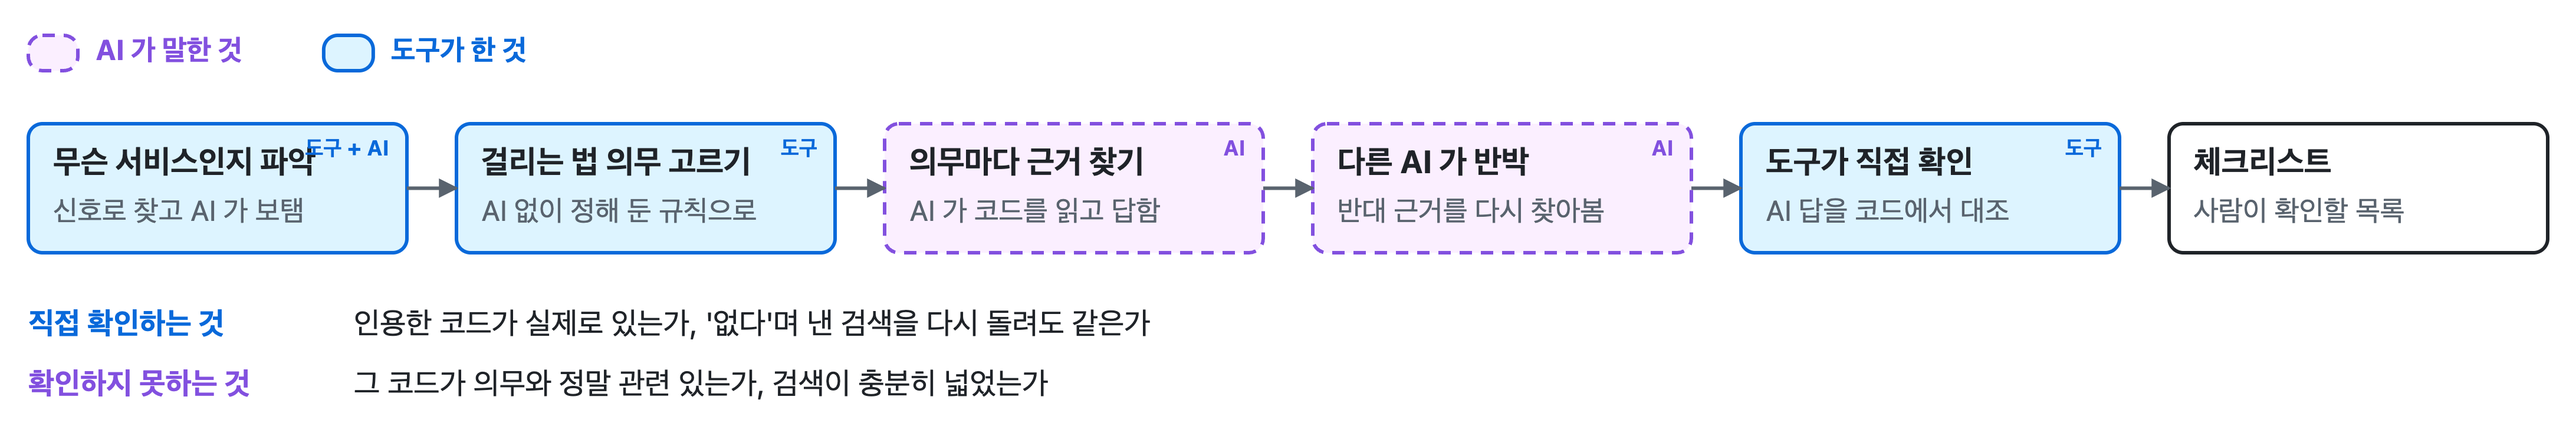
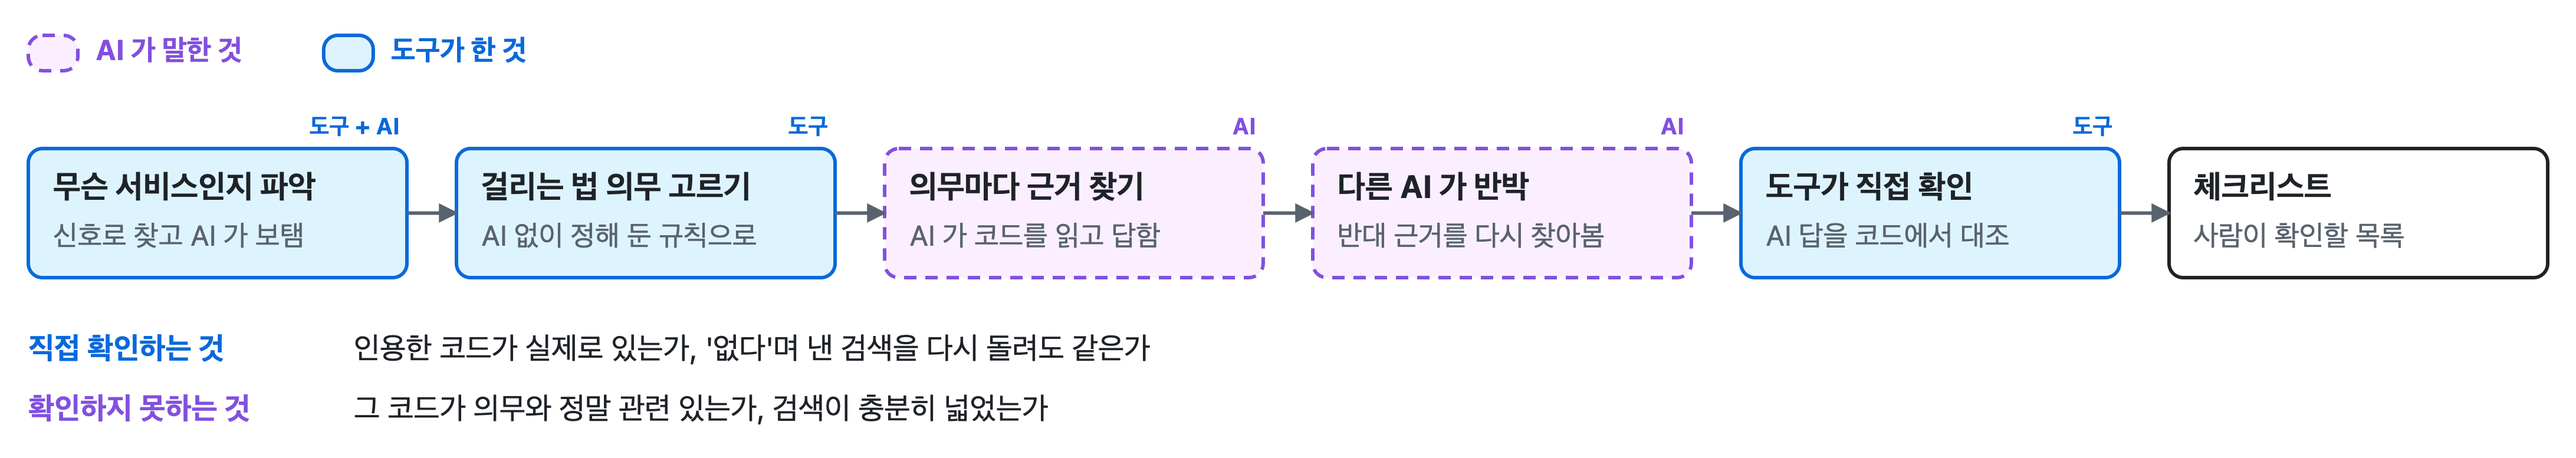
쉬운 판 손질: 그림 2 의 딱지를 상자 위로(제목과 겹치지 않게), 그림 1 은 상자를 계단처럼 조이고 번호를 선 바로 옆에
- analysis-flow-simple: 'AI'·'도구'·'도구 + AI' 딱지를 상자 안 오른쪽 위에서 상자 바로 위로 옮겼다
- analysis-path-simple: ③ 이 웹 상자 아래에서 곧게 VM 으로 내려가게 상자를 계단처럼 놓아 왼쪽·가운데 빈자리를 줄였다(폭 1432 → 1216). 번호는 세로 선은 옆 16, 가로 선은 위 12 에 붙인다
- 내보내기 스크립트가 글끼리 겹치는 것도 잰다(이번 겹침을 잡는 것을 확인했다)

diff --git a/src/lib/how/figures.ts b/src/lib/how/figures.ts
@@ -46,7 +46,7 @@ function put(
   w: number,
   title: string,
   lines: string[],
-  opts: { tone?: Tone; tag?: string; size?: { title: number; line: number }; h?: number } = {},
+  opts: { tone?: Tone; tag?: string; tagAbove?: boolean; size?: { title: number; line: number }; h?: number } = {},
 ): Placed {
   const h = opts.h ?? boxHeight(lines.length, opts.size);
   c.box(id, x, y, w, h, title, lines, opts);
@@ -56,14 +56,8 @@ function put(
 /* ─────────────────────────── 쉬운 판 1: 한 번의 분석이 지나는 길 ─────────────────────────── */
 
 function pathSimple(): Figure {
-  const W = 1432;
+  const W = 1216;
   const c = new Canvas();
-  const col = [
-    { x: 160, w: 250 },
-    { x: 470, w: 320 },
-    { x: 850, w: 280 },
-    { x: 1190, w: 210 },
-  ];
   const lanes = [
     { id: "browser", name: "브라우저", sub: "", y: 16, h: 108, tone: "plain" as Tone },
     { id: "web", name: "웹", sub: "Vercel", y: 132, h: 108, tone: "plain" as Tone },
@@ -74,39 +68,41 @@ function pathSimple(): Figure {
   const H = 628;
   const lane = Object.fromEntries(lanes.map((l) => [l.id, l]));
   for (const l of lanes) c.lane(`lane-${l.id}`, 16, l.y, W - 32, l.h, l.name, { sub: l.sub || undefined, tone: l.tone, size: BIG.lane });
-  const at = (id: string, laneId: string, ci: number, title: string, line: string, opts: { tone?: Tone; low?: boolean } = {}) => {
+  /** 띠 안에 상자 하나(세로 가운데, `low` 면 띠의 아래쪽). 상자는 계단처럼 놓아 ②·③·⑥ 이 곧게 내려가거나 올라간다. */
+  const at = (id: string, laneId: string, x: number, w: number, title: string, line: string, opts: { tone?: Tone; low?: boolean } = {}) => {
     const l = lane[laneId];
     const h = boxHeight(1, BIG);
     const y = opts.low ? l.y + l.h - h - 16 : Math.round(l.y + (l.h - h) / 2);
-    return put(c, id, col[ci].x, y, col[ci].w, title, [line], { tone: opts.tone, size: BIG });
+    return put(c, id, x, y, w, title, [line], { tone: opts.tone, size: BIG });
   };
-  const s1 = at("s1", "browser", 0, "주소를 넣는다", "저장소 쪽의 분석 요청 단추");
-  const s2 = at("s2", "web", 0, "확인하고 줄을 세운다", "공개인지 보고 차례를 정함");
-  const s3 = at("s3", "vm", 1, "새 VM 이 코드를 받는다", "GitHub 에서 받아 읽기만, 끝나면 사라짐");
-  const s4 = at("s4", "vm", 2, "AI 와 함께 읽는다", "검토 엔진이 의무마다 근거를 찾음");
-  const ai = at("ai", "ai", 2, "AI", "바깥 서비스", { tone: "out", low: true });
-  const s5 = at("s5", "db", 3, "결과만 저장한다", "코드 전체는 두지 않음", { tone: "keep" });
-  const s6 = at("s6", "browser", 3, "화면에 보인다", "진행과 체크리스트");
+  const s1 = at("s1", "browser", 160, 250, "주소를 넣는다", "저장소 쪽의 분석 요청 단추");
+  const s2 = at("s2", "web", 160, 250, "확인하고 줄을 세운다", "공개인지 보고 차례를 정함");
+  const s3 = at("s3", "vm", 250, 320, "새 VM 이 코드를 받는다", "GitHub 에서 받아 읽기만, 끝나면 사라짐");
+  const s4 = at("s4", "vm", 620, 280, "AI 와 함께 읽는다", "검토 엔진이 의무마다 근거를 찾음");
+  const ai = at("ai", "ai", 620, 280, "AI", "바깥 서비스", { tone: "out", low: true });
+  const s5 = at("s5", "db", 970, 210, "결과만 저장한다", "코드 전체는 두지 않음", { tone: "keep" });
+  const s6 = at("s6", "browser", 970, 210, "화면에 보인다", "진행과 체크리스트");
 
-  // ① 들어옴, ② 아래로, ③ DB 띠를 지나 VM 으로, ④ 옆으로, ⑤ 위로 DB, ⑥ 웹 띠를 지나 브라우저로.
+  // 번호는 선 바로 옆(세로 선은 오른쪽이나 왼쪽 16, 가로 선은 위 12)에 붙인다.
+  const NEAR = 16;
   c.arrow([
     [s1.x - 44, s1.cy],
     [s1.x, s1.cy],
   ]);
-  c.num(s1.x - 24, s1.cy - 12, 1);
+  c.num(s1.x - 22, s1.cy - 12, 1);
   const x2 = s1.x + 60;
   c.arrow([
     [x2, s1.bottom],
     [x2, s2.y],
   ]);
-  c.num(x2 + 24, (s1.bottom + s2.y) / 2 + 8, 2);
-  const x3 = s3.x + 60;
+  c.num(x2 + NEAR, (s1.bottom + s2.y) / 2 + 8, 2);
+  // ③ 웹이 VM 을 깨운다(코드는 VM 이 GitHub 에서 받는다). 웹 상자 아래에서 DB 띠를 곧게 지나 VM 상자로.
+  const x3 = 330;
   c.arrow([
-    [s2.right, s2.cy],
-    [x3, s2.cy],
+    [x3, s2.bottom],
     [x3, s3.y],
   ]);
-  c.num(x3 + 24, lane.db.y + lane.db.h / 2 + 8, 3);
+  c.num(x3 + NEAR, lane.db.y + lane.db.h / 2 + 8, 3);
   c.arrow([
     [s3.right, s3.cy],
     [s4.x, s4.cy],
@@ -127,9 +123,8 @@ function pathSimple(): Figure {
     [backX, s4.bottom],
   ]);
   c.label(backX + 14, lane.ai.y + 30, "답", { anchor: "start", size: BIG.line });
-  // ⑤ 결과는 웹을 거쳐(웹이 받아) DB 에 둔다. 웹 띠까지 올라갔다가 DB 상자로 내려온다.
-  // ⑤ 는 ⑥ 의 왼쪽으로 내려와 두 화살표가 엇갈리지 않는다.
-  const x5 = s5.x - 34;
+  // ⑤ 결과는 웹을 거쳐(웹이 받아) DB 에 둔다. 웹 띠까지 올라갔다가 DB 상자로 내려온다. ⑥ 의 왼쪽으로 내려와 엇갈리지 않는다.
+  const x5 = s4.right + 36;
   const y5 = lane.web.y + lane.web.h - 30;
   const in5 = s5.x + 40;
   c.arrow([
@@ -139,13 +134,13 @@ function pathSimple(): Figure {
     [in5, y5],
     [in5, s5.y],
   ]);
-  c.num(x5 - 22, lane.db.y + lane.db.h / 2 + 8, 5);
-  const x6 = s5.x + 140;
+  c.num(x5 - NEAR, lane.db.y + lane.db.h / 2 + 8, 5);
+  const x6 = s5.x + 150;
   c.arrow([
     [x6, s5.y],
     [x6, s6.bottom],
   ]);
-  c.num(x6 + 24, lane.web.y + 40, 6);
+  c.num(x6 + NEAR, lane.web.y + 40, 6);
 
   return {
     id: "how-path-simple",
@@ -193,9 +188,12 @@ function reviewSimple(): Figure {
   ];
   const w = 214;
   const gap = 28;
-  const y = 70;
+  const y = 84;
   const tagOf = (i: number, tone: Tone) => (i === 0 ? "도구 + AI" : tone === "model" ? "AI" : tone === "tool" ? "도구" : undefined);
-  const boxes = steps.map(([title, line, tone], i) => put(c, `s${i + 1}`, 16 + i * (w + gap), y, w, title, [line], { tone, size, tag: tagOf(i, tone) }));
+  // 딱지(AI·도구)는 상자 위에 둔다(제목과 겹치지 않게).
+  const boxes = steps.map(([title, line, tone], i) =>
+    put(c, `s${i + 1}`, 16 + i * (w + gap), y, w, title, [line], { tone, size, tag: tagOf(i, tone), tagAbove: true }),
+  );
   boxes.slice(1).forEach((b, i) =>
     c.arrow([
       [boxes[i].right, boxes[i].cy],

diff --git a/src/lib/how/draw.ts b/src/lib/how/draw.ts
@@ -122,14 +122,17 @@ export class Canvas {
     h: number,
     title: string,
     lines: string[] = [],
-    opts: { tone?: Tone; tag?: string; size?: { title: number; line: number } } = {},
+    opts: { tone?: Tone; tag?: string; tagAbove?: boolean; size?: { title: number; line: number } } = {},
   ) {
     const tone = opts.tone ?? "plain";
     const size = opts.size ?? SIZE;
     const at = layout(size.title, size.line);
     this.shapes.push({ kind: "rect", id, x, y, w, h, cls: `hw-box t-${tone}`, dash: tone === "model" });
     this.shapes.push({ kind: "text", x: x + PAD, y: y + at.title, text: title, cls: "hw-title", size: size.title, bold: true, in: id });
-    if (opts.tag)
+    // 딱지(모델·도구·외부): 상자 안 오른쪽 위, 또는(`tagAbove`) 상자 바로 위 오른쪽. 제목이 길어 겹칠 때 위로 뺀다.
+    if (opts.tag && opts.tagAbove)
+      this.shapes.push({ kind: "text", x: x + w - 4, y: y - 8, text: opts.tag, cls: `hw-tag t-${tone}`, size: SIZE.tag + 1, bold: true, anchor: "end" });
+    else if (opts.tag)
       this.shapes.push({ kind: "text", x: x + w - 10, y: y + 18, text: opts.tag, cls: `hw-tag t-${tone}`, size: SIZE.tag, bold: true, anchor: "end", in: id });
     lines.forEach((line, i) =>
       this.shapes.push({ kind: "text", x: x + PAD, y: y + at.first + i * at.gap, text: line, cls: "hw-line", size: size.line, in: id }),
